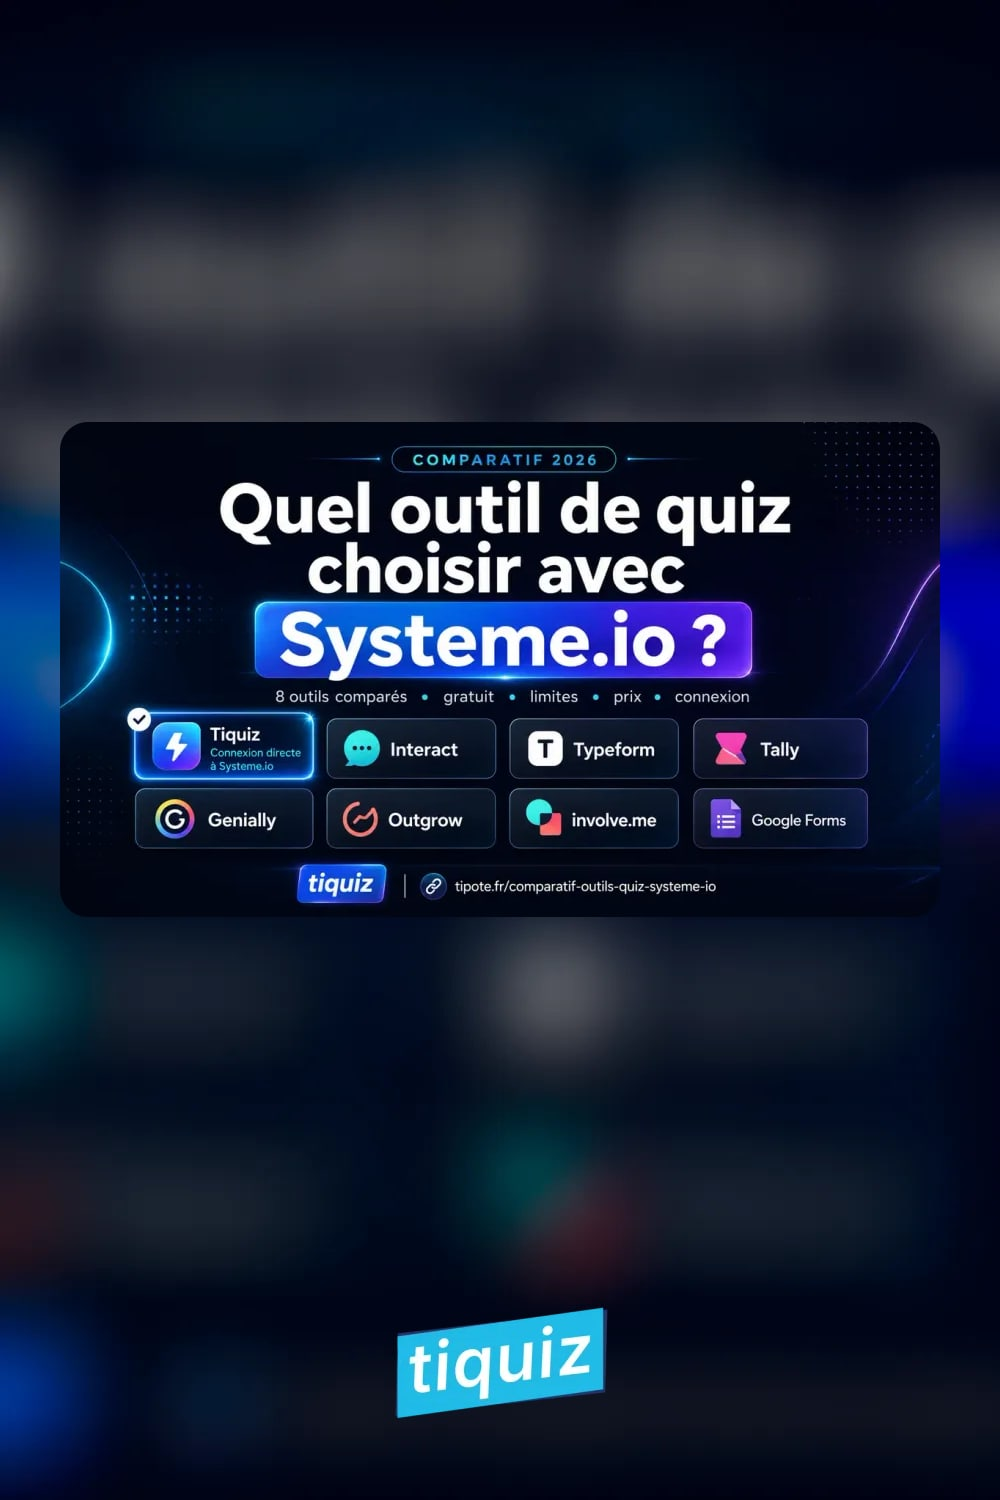
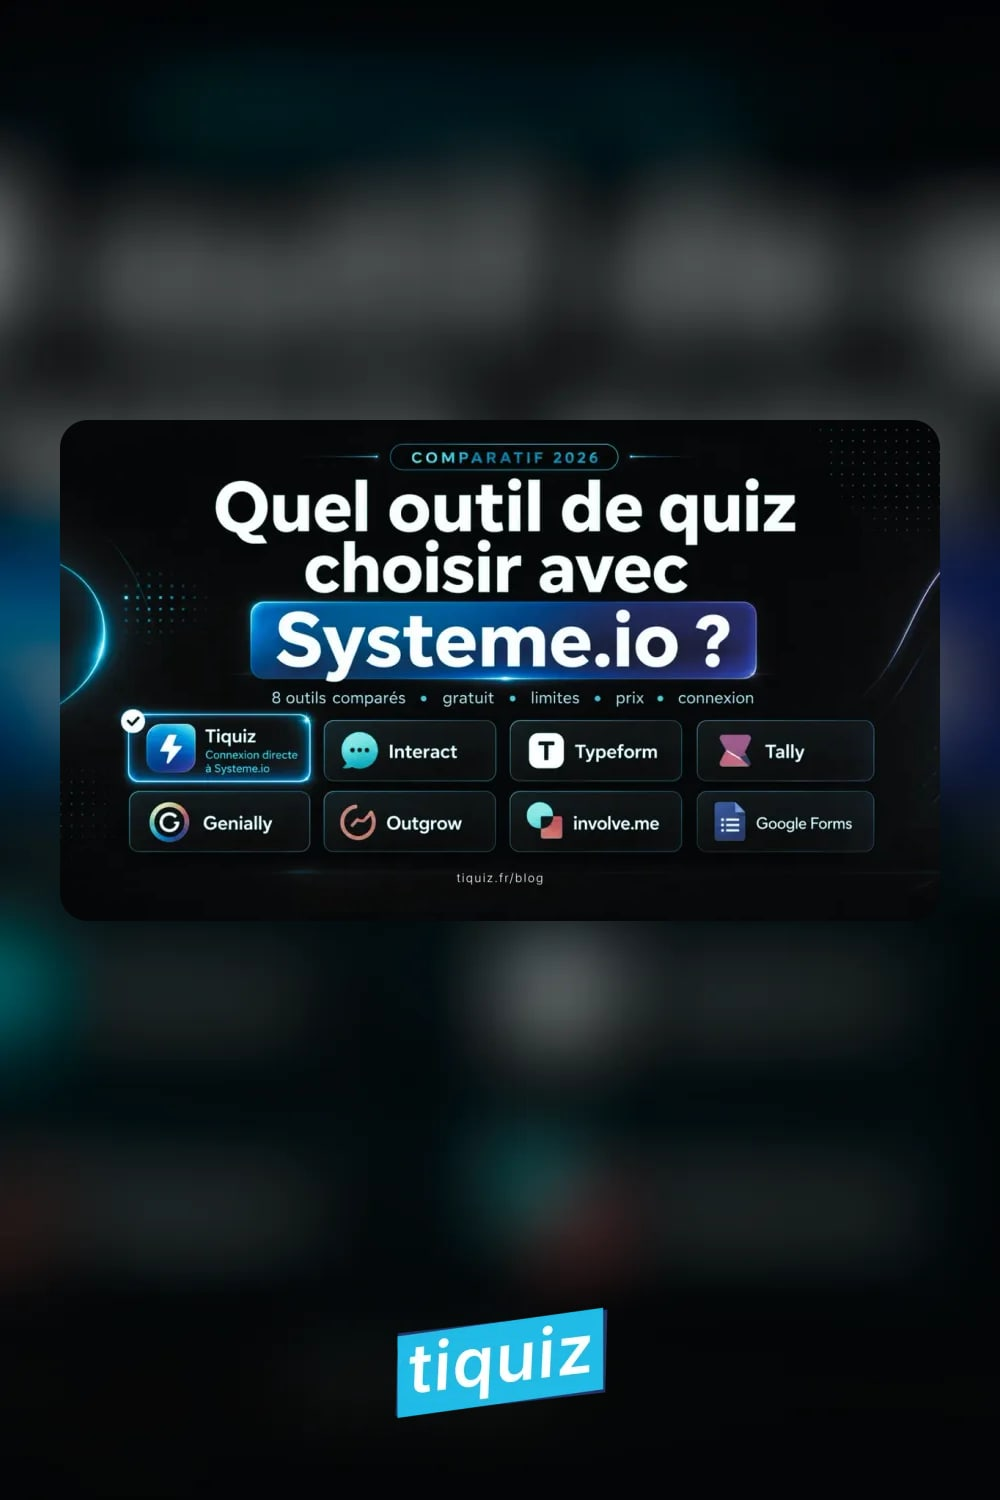
Blog : nouvelles couvertures, et le 108 EUR qui vivait encore dans la FAQ
Les 10 couvertures livrees par Bene sont converties en WebP 1200 de
large (668 Ko -> 553 Ko), les epingles Pinterest reconstruites 10/10, et
le dossier source retire de `public/` : servi tel quel il exposait 11 Mo
de PNG a /blog/nouvelles%20couvertures%20articles/, crawlables et en
double.

Neuf sur dix reglent l'adresse perimee (tiquiz.fr/blog au lieu de
tipote.fr). La dixieme, celle de l'affiliation, rejoue les deux erreurs
de l'ancienne : 108 EUR/mois pour 30 filleuls (l'ancien tarif a 9 EUR ;
le bon chiffre est 204) et le lien tipote.fr/tiquiz?sa=TON_ID, soit le
domaine Systeme.io ET le parametre banni le 24 aout. A redessiner.

En verifiant ce chiffre contre le texte, la FAQ de l'article portait
cinq faits dont QUATRE faux :

- 108 EUR au lieu de 204, et 1 800 EUR au lieu de 3 400 : deux calculs
  restes au tarif d'avant le 6 aout, contredits par la phrase juste au
  dessus et par le corps de l'article ;
- "versee automatiquement le 10 de chaque mois" : c'est ENTRE le 10 et
  le 13 ;
- "Pas de seuil de versement a atteindre" : il y en a un, 20 EUR, plus
  un delai de 30 jours. C'est le plus cher : ca ne se decouvre qu'au
  premier virement, et c'est le blog qui recrute ;
- "dashboard de suivi sur Systeme io" : il vit sur affiliate.tipote.com.

La regle vit dans lib/blog/faitsProgramme.ts, blog:reparer l'applique et
le test appelle LA MEME fonction. Les montants se calculent, ils ne se
recopient pas.
[…]

diff --git a/lib/blog/faitsProgramme.ts b/lib/blog/faitsProgramme.ts
@@ -1,0 +1,188 @@
+// lib/blog/faitsProgramme.ts
+//
+// CE QUE LE BLOG PROMET DU PROGRAMME D'AFFILIATION, ET QUI DOIT ÊTRE
+// VRAI.
+//
+// -- CE QUE ÇA FERME (31 août 2026) ------------------------------------
+//
+// Béné : "vérifier que chaque affilié reçoit les bonnes infos."
+//
+// La FAQ de `rente-mensuelle-affiliation-tiquiz` portait cinq faits, et
+// quatre étaient faux. Deux familles, et la seconde coûte plus cher que
+// la première :
+//
+// **1. Une ARITHMÉTIQUE restée au tarif d'avant le 6 août.** "Avec 30
+// filleuls actifs sur le mensuel, ta rente s'élève à 108 € par mois" :
+// 108, c'est 30 x 9 € x 40 %, l'ancien prix. La phrase JUSTE AU DESSUS
+// annonce 6,80 € par filleul, donc 204 €, et le corps de l'article dit
+// 204 € lui aussi. Le même article se contredisait à deux paragraphes
+// d'écart. Idem pour "1 800 € par an" sur 50 filleuls annuels, quand le
+// corps dit 3 400 €.
+//
+// C'est exactement le piège écrit dans l'AGENTS.md du 29 août : la
+// passe d'import corrige les PRIX et laisse les CALCULS faits avec
+// l'ancien prix. Le prix devient juste et le résultat devient faux, ce
+// qui est pire que de n'avoir rien touché.
+//
+// **2. Des PROMESSES que le système contredit.** "versée
+// automatiquement le 10 de chaque mois" et surtout "Pas de seuil de
+// versement à atteindre" : il y en a un, 20 €
+// (`MONTANT_MINIMUM_CENTS`), et le versement a lieu ENTRE le 10 et le
+// 13, 30 jours après le paiement du client. L'espace affilié le dit
+// correctement depuis le 26 août ; le blog, non.
+//
+// C'est la faute la plus chère de la liste, parce qu'elle ne se
+// découvre qu'au premier virement, et que c'est le blog qui recrute :
+// un gros affilié lit la promesse ici, constate autre chose là-bas, et
+// ne revient pas. Même famille que les CGV du 22 août, dont l'article 5
+// annonçait une renonciation que l'écran ne recueillait pas.
+//
+// -- POURQUOI UN MODULE, ET PAS UN COUP DE `sed` -----------------------
+//
+// Parce que le contenu est un FICHIER : corrigé une fois à la main, il
+// redeviendrait faux au prochain import, et personne ne le verrait. La
+// règle vit donc ici, `npm run blog:reparer` l'applique, et
+// `tests/logic/blog.test.mts` appelle LA MÊME fonction : le contenu est
+// propre quand la réparation ne change plus rien. Deux copies de la
+// règle finiraient par ne plus être d'accord (leçon de la
+// reponctuation, 30 août).
+
+/** Le prix mensuel TTC, tel que le catalogue le vend. */
+const PRIX_MENSUEL_TTC = 17;
+/** Le prix annuel TTC. */
+const PRIX_ANNUEL_TTC = 170;
+/** Le taux de BASE annoncé publiquement. */
+const TAUX_BASE = 0.4;
+
+/**
+ * La rente par filleul, telle que l'article l'annonce.
+ *
+ * Calculée, jamais recopiée : c'est ce qui a manqué à la passe
+ * d'import. 6,80 € et 68 € doivent tomber d'ici, sinon un changement de
+ * tarif laisserait encore des calculs à l'ancien prix.
+ */
+export const RENTE_PAR_FILLEUL = {
+  mensuel: PRIX_MENSUEL_TTC * TAUX_BASE,
+  annuel: PRIX_ANNUEL_TTC * TAUX_BASE,
+} as const;
+
+/** Un montant en euros, écrit comme l'article les écrit. */
+function euros(n: number): string {
+  const arrondi = Math.round(n * 100) / 100;
+  const s = Number.isInteger(arrondi)
+    ? String(arrondi)
+    : arrondi.toFixed(2).replace(".", ",");
+  // L'espace des milliers de l'article est une INSÉCABLE, jamais une
+  // espace ordinaire : la taper produirait un remplacement qui ne
+  // trouve rien, en silence.
+  return s.replace(/\B(?=(\d{3})+(?!\d))/g, " ");
+}
+
+/**
+ * LES CORRECTIONS, PHRASE ENTIÈRE PAR PHRASE ENTIÈRE.
+ *
+ * Une phrase qui porte une arithmétique se corrige ENTIÈRE, jamais par
+ * un remplacement de nombre : `108` seul se retrouverait dans une date,
+ * un identifiant ou un autre calcul.
+ *
+ * Chaque règle dit POURQUOI. Une table sans raison écrite est une table
+ * que le prochain passage "nettoie" en cassant le cas qu'il ne connaît
+ * pas.
+ */
+export const FAITS: readonly {
+  de: string;
+  vers: string;
+  pourquoi: string;
+}[] = [
+  {
+    de: "Avec 30 filleuls actifs sur le mensuel, ta rente s'élève à 108 € par mois.",
+    vers: `Avec 30 filleuls actifs sur le mensuel, ta rente s'élève à ${euros(
+      30 * RENTE_PAR_FILLEUL.mensuel,
+    )} € par mois.`,
+    pourquoi:
+      "108 = 30 x 9 EUR x 40 %, l'ancien tarif. La phrase juste au dessus annonce 6,80 EUR par filleul, donc 204 EUR, et le corps de l'article dit 204 EUR.",
+  },
+  {
+    de: "Avec 50 filleuls actifs sur l'annuel, ta rente atteint 1 800 € par an.",
+    vers: `Avec 50 filleuls actifs sur l'annuel, ta rente atteint ${euros(
+      50 * RENTE_PAR_FILLEUL.annuel,
+    )} € par an.`,
+    pourquoi:
+      "1 800 = 50 x 90 EUR x 40 %, l'ancien tarif annuel. Le corps de l'article dit 3 400 EUR.",
+  },
+  {
+    de: "rente mensuelle versée automatiquement le 10 de chaque mois",
+    vers: "rente mensuelle versée entre le 10 et le 13 de chaque mois",
+    pourquoi:
+      "le versement a lieu ENTRE le 10 et le 13, c'est ce que dit l'espace affilie depuis le 26 aout",
+  },
+  {
+    de: "Ta rente est versée <strong>automatiquement le 10 de chaque mois</strong>, via PayPal ou virement bancaire au choix. Pas de seuil de versement à atteindre, pas de facture à émettre, pas de relance à faire.",
+    vers:
+      "Ta rente est versée <strong>entre le 10 et le 13 de chaque mois</strong>, via PayPal ou virement bancaire au choix. " +
+      "Une commission devient versable 30 jours après le paiement de ton filleul, et le versement part dès 20 € cumulés. " +
+      "En dessous de ce seuil l'argent reste acquis et part au versement suivant. Pas de facture à émettre, pas de relance à faire : nous l'émettons pour toi.",
+    pourquoi:
+      "IL Y A un seuil (20 EUR) et un delai (J+30). Promettre le contraire ne se decouvre qu'au premier virement, et c'est le blog qui recrute.",
+  },
+  {
+    de: "et un dashboard de suivi de ta rente sur Systeme io",
+    vers: "et un dashboard de suivi de ta rente dans ton espace affilié",
+    pourquoi:
+      "le tableau de bord vit sur affiliate.tipote.com depuis que le registre est chez nous ; Systeme.io ne montre plus que ses anciens tunnels",
+  },
+];
+
+/**
+ * LE MOTIF D'UNE RÈGLE, TOLÉRANT AUX ESPACES.
+ *
+ * -- CE QUI A ÉTÉ RATÉ AU PREMIER JET, ET QUI EST INSTRUCTIF ----------
+ *
+ * La règle sur "1 800 € par an" ne trouvait RIEN : l'article écrit ce
+ * nombre avec une espace INSÉCABLE, et la règle portait une espace
+ * ordinaire. Le remplacement échouait en silence.
+ *
+ * Pire, le CONTRÔLE échouait de la même façon, avec le même littéral :
+ * il répondait "aucun fait faux" sur un article qui portait encore le
+ * mauvais chiffre. **Un contrôle qui ne distingue pas ce qu'il est
+ * censé distinguer est pire qu'un contrôle absent** (leçon du 22 août
+ * sur les clés Supabase).
+ *
+ * Toute suite d'espaces du motif accepte donc n'importe quelle espace :
+ * ordinaire, insécable, insécable fine. C'est le piège nommé dans
+ * l'AGENTS.md du 29 août, qui disait déjà qu'une espace insécable ne se
+ * tape pas, elle s'exprime.
+ */
+function motif(de: string): RegExp {
+  const echappe = de.replace(/[.*+?^${}()|[\]\\]/g, "\\$&");
+  return new RegExp(echappe.replace(/[\s\u00a0\u202f]+/g, "[\\s\\u00a0\\u202f]+"), "g");
+}
+
+/**
+ * Applique les corrections de faits à un fragment.
+ *
+ * Idempotente par construction : chaque motif disparaît après le
+ * premier passage, donc relancer ne change plus rien. C'est ce qui
+ * permet au test d'exiger que la réparation ne change rien sur le
+ * contenu déployé.
+ */
+export function corrigerFaits(fragment: string): string {
+  let out = String(fragment ?? "");
+  for (const regle of FAITS) out = out.replace(motif(regle.de), regle.vers);
+  return out;
+}
+
+/**
+ * Ce qui reste FAUX dans un fragment, s'il y a quelque chose.
+ *
+ * Sert au contrôle, pas à la réparation : il nomme la règle qui n'a pas
+ * été appliquée plutôt que de répondre par un booléen. Un contrôle qui
+ * dit juste « non » envoie chercher au mauvais endroit.
+ *
+ * Il utilise LE MÊME motif que la réparation : c'est la seule façon
+ * qu'il voie exactement ce qu'elle voit.
+ */
+export function faitsFaux(fragment: string): string[] {
+  const texte = String(fragment ?? "");
+  return FAITS.filter((r) => motif(r.de).test(texte)).map((r) => r.pourquoi);
+}

diff --git a/AGENTS.md b/AGENTS.md
@@ -3355,8 +3355,74 @@ qui n'est pas en 1000 x 1500.
   "tiquiz amazon" sur des visuels sans rapport. Écrire ces textes demande
   de savoir ce qu'il y a dans l'image : c'est un travail à faire avec
   Béné, pas à inventer.
-- **Plusieurs couvertures portent une adresse périmée incrustée dans le
-  dessin** (`tipote.fr/<slug>`, `tipote.fr/tiquiz?sa=TON_ID`), et celle
-  de l'article d'affiliation annonce **108 €/mois** alors que le texte
-  corrigé dit 204 €. Le visuel contredit l'article, et il part tel quel
-  sur Pinterest.
+
+## Les nouvelles couvertures, et le chiffre qui a survécu au dessin (31 août 2026)
+
+Béné a livré dix couvertures neuves, une par article, aux noms exacts des
+slugs. Converties en WebP 1200 de large dans `public/blog/img/<slug>.webp`
+(668 Ko -> 553 Ko), épingles Pinterest reconstruites
+(`npm run blog:epingles`, 10/10), et le dossier source retiré de
+`public/` : servi tel quel, il aurait exposé 11 Mo de PNG à
+`/blog/nouvelles%20couvertures%20articles/`, crawlables et en double.
+
+**Neuf sur dix règlent le problème de l'adresse périmée** : elles portent
+`tiquiz.fr/blog` au lieu de `tipote.fr/<slug>`. Vérifié en les
+REGARDANT, pas en le supposant.
+
+**La dixième rejoue les deux erreurs de l'ancienne**, et c'est un dessin
+donc aucun test ne peut le voir :
+`rente-mensuelle-affiliation-tiquiz.png` annonce **108 €/mois pour 30
+filleuls** (c'est 30 x 9 € x 40 %, l'ancien tarif : le bon chiffre est
+204 €) et montre le lien **`tipote.fr/tiquiz?sa=TON_ID`**, c'est à dire
+le domaine Systeme.io ET le paramètre que Béné a banni le 24 août. Un
+lien qui atterrit là ne paie plus personne. À redessiner ; l'épingle
+Pinterest en hérite.
+
+### Et le même 108 € vivait ENCORE dans la FAQ de l'article
+
+En vérifiant le chiffre du dessin contre le texte, la FAQ portait cinq
+faits dont **quatre faux**. Deux familles, et la seconde coûte le plus
+cher.
+
+**Des calculs restés au tarif d'avant le 6 août.** "Avec 30 filleuls
+actifs sur le mensuel, ta rente s'élève à 108 € par mois", alors que la
+phrase JUSTE AU DESSUS annonce 6,80 € par filleul (donc 204 €) et que le
+corps de l'article dit 204 €. Le même article se contredisait à deux
+paragraphes d'écart. Idem pour "1 800 € par an" sur 50 filleuls annuels,
+quand le corps dit 3 400 €. C'est le piège de l'import nommé le 29 août :
+la passe corrige les PRIX et laisse les CALCULS faits avec l'ancien prix.
+
+**Des promesses que le système contredit.** "versée automatiquement le 10
+de chaque mois" (c'est ENTRE le 10 et le 13), et surtout **"Pas de seuil
+de versement à atteindre"** alors qu'il y en a un, 20 €, plus un délai de
+30 jours. L'espace affilié le dit correctement depuis le 26 août ; le
+blog promettait l'inverse. Ça ne se découvre qu'au premier virement, et
+c'est le blog qui recrute : un gros affilié lit ici, constate là-bas, et
+ne revient pas. Même famille que les CGV du 22 août, dont l'article 5
+annonçait une renonciation que l'écran ne recueillait pas.
+Le kit annonçait aussi "un dashboard de suivi de ta rente sur Systeme
+io" : il vit sur `affiliate.tipote.com` depuis que le registre est chez
+nous.
+
+**Règle : `lib/blog/faitsProgramme.ts`**, appliqué par
+`npm run blog:reparer` et vérifié par `tests/logic/blog.test.mts`, qui
+appelle LA MÊME fonction : le contenu est propre quand la réparation ne
+change plus rien. Les montants se CALCULENT (`RENTE_PAR_FILLEUL`), ils ne
+se recopient pas, sinon le prochain changement de tarif laissera encore
+des calculs à l'ancien prix. Et **les faits passent AVANT la
+reponctuation** : reponctuer d'abord change les espaces autour des `€`,
+donc plus aucune phrase entière ne serait reconnue.
+
+**LA FAUTE QUE J'AI FAITE EN L'ÉCRIVANT, et qui vaut plus que la règle :**
+le motif de "1 800 € par an" portait une espace ORDINAIRE, l'article une
+INSÉCABLE. Le remplacement ne trouvait rien. **Et le contrôle échouait de
+la même façon, avec le même littéral : il répondait "aucun fait faux" sur
+un article qui portait encore le mauvais chiffre.** Un contrôle qui ne
+distingue pas ce qu'il est censé distinguer est pire qu'un contrôle
+absent (leçon des clés Supabase, 22 août). Les motifs acceptent
+maintenant n'importe quelle espace, et un test le fige.
+
+**Reste à trancher par Béné, pas par le code :** la FAQ promet des
+commissions sur Tipote "quand Tipote sort", avec des prix (19 € à
+917 €/mois) et un exemple à 39,60 €/mois. Tipote n'est pas en vente, et
+la règle du 8 juin dit qu'on n'en parle NULLE PART en affiliation.
